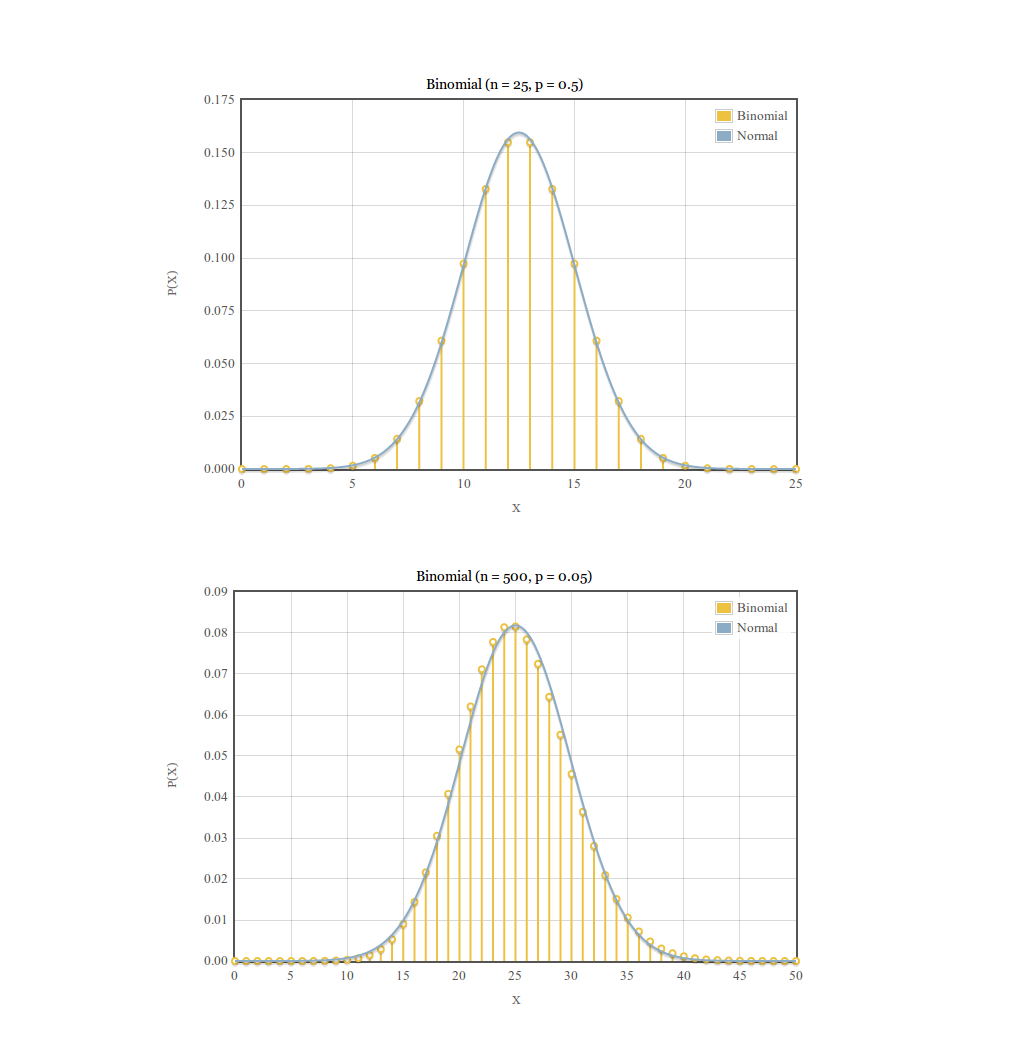
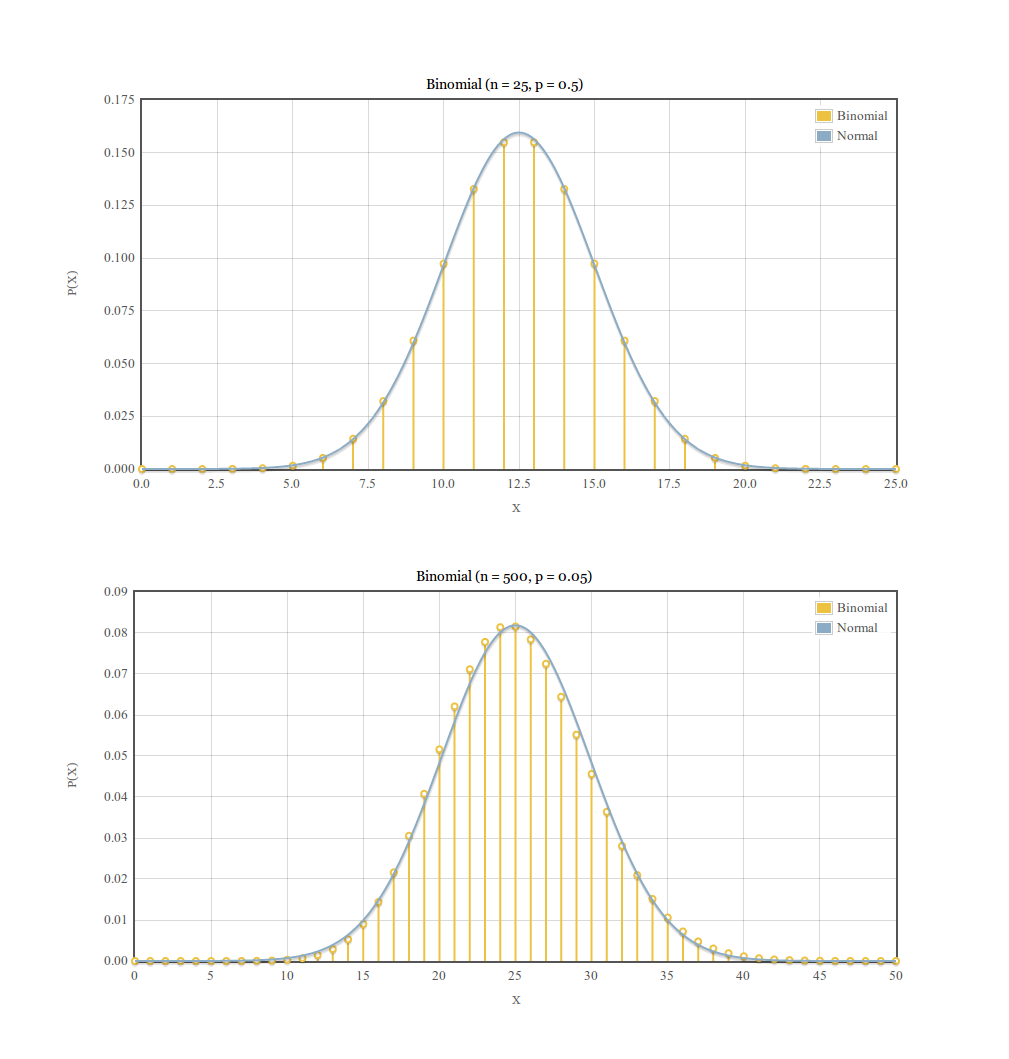
Changed presentation images to be wider.

diff --git a/project/calc/flot-pres/binomial-normal-sn.html b/project/calc/flot-pres/binomial-normal-sn.html
@@ -28,7 +28,7 @@
       }
       .ylabel {
         top: 200px;
-        left: 150px;
+        left: 50px;
         -webkit-transform: rotate(-90deg);
       }
     </style>
@@ -72,7 +72,7 @@
         $('body').append(html[
           div.box(
             div.caption('Binomial (n = 25, p = 0.05)'),
-            div.plot /attr('id', 'comparison-n25p005-no-sn') /css({width:600, height:400}),
+            div.plot /attr('id', 'comparison-n25p005-no-sn') /css({width:800, height:400}),
             div.xlabel('X'),
             div.ylabel('P(X)')
           )
@@ -113,7 +113,7 @@
         $('body').append(html[
           div.box(
             div.caption('Binomial (n = 25, p = 0.05)'),
-            div.plot /attr('id', 'comparison-n25p005-with-sn') /css({width:600, height:400}),
+            div.plot /attr('id', 'comparison-n25p005-with-sn') /css({width:800, height:400}),
             div.xlabel('X'),
             div.ylabel('P(X)')
           )

diff --git a/project/calc/flot-pres/binomial-normal.html b/project/calc/flot-pres/binomial-normal.html
@@ -28,7 +28,7 @@
       }
       .ylabel {
         top: 200px;
-        left: 150px;
+        left: 50px;
         -webkit-transform: rotate(-90deg);
       }
     </style>
@@ -70,7 +70,7 @@
         $('body').append(html[
           div.box(
             div.caption('Binomial (n = 25, p = 0.5)'),
-            div.plot /attr('id', 'comparison-n25p05') /css({width:600, height:400}),
+            div.plot /attr('id', 'comparison-n25p05') /css({width:800, height:400}),
             div.xlabel('X'),
             div.ylabel('P(X)')
           )
@@ -102,7 +102,7 @@
         $('body').append(html[
           div.box(
             div.caption('Binomial (n = 500, p = 0.05)'),
-            div.plot /attr('id', 'comparison-n500p005') /css({width:600, height:400}),
+            div.plot /attr('id', 'comparison-n500p005') /css({width:800, height:400}),
             div.xlabel('X'),
             div.ylabel('P(X)')
           )
